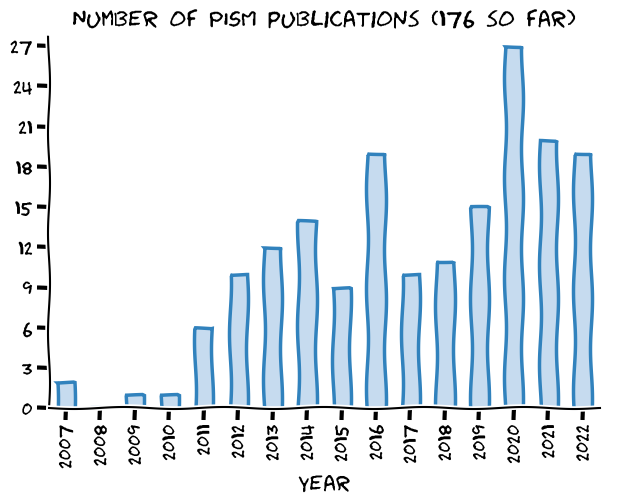
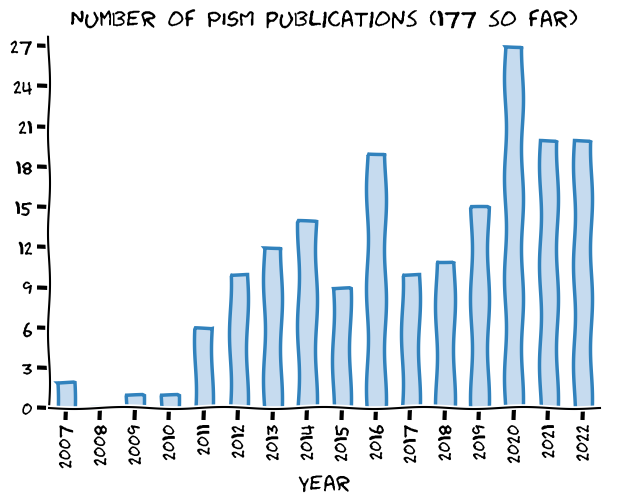
[skip ci] Update the website

Changed region(s): [[0.0922, 0.0, 0.9531, 0.0598], [0.9223, 0.2689, 0.9838, 0.8068]]

diff --git a/publications/index.html b/publications/index.html
@@ -296,6 +296,7 @@ window.onscroll = function() {
   <li>R. Döscher, M. Acosta, A. Alessandri, P. Anthoni, T. Arsouze, T. Bergman, R. Bernardello, S. Boussetta, L.-P. Caron, G. Carver, M. Castrillo, F. Catalano, I. Cvijanovic, P. Davini, E. Dekker, F. J. Doblas-Reyes, D. Docquier, P. Echevarria, U. Fladrich, R. Fuentes-Franco, M. Gröger, J. v. Hardenberg, J. Hieronymus, M. P. Karami, J.-P. Keskinen, T. Koenigk, R. Makkonen, F. Massonnet, M. Ménégoz, P. A. Miller, E. Moreno-Chamarro, L. Nieradzik, T. van Noije, P. Nolan, D. O’Donnell, P. Ollinaho, G. van den Oord, P. Ortega, O. T. Prims, A. Ramos, T. Reerink, C. Rousset, Y. Ruprich-Robert, P. Le Sager, T. Schmith, R. Schrödner, F. Serva, V. Sicardi, M. Sloth Madsen, B. Smith, T. Tian, E. Tourigny, P. Uotila, M. Vancoppenolle, S. Wang, D. Wårlind, U. Willén, K. Wyser, S. Yang, X. Yepes-Arbós, and Q. Zhang. The EC-Earth3 Earth system model for the Coupled Model Intercomparison Project 6. <em>Geoscientific Model Development</em>, 15(7):2973–3020, 2022. URL: <a href="https://gmd.copernicus.org/articles/15/2973/2022/">https://gmd.copernicus.org/articles/15/2973/2022/</a>, <a href="https://doi.org/10.5194/gmd-15-2973-2022">doi:10.5194/gmd-15-2973-2022</a>.</li>
   <li>J. Feldmann, R. Reese, R. Winkelmann, and A. Levermann. Shear-margin melting causes stronger transient ice discharge than ice-stream melting in idealized simulations. <em>The Cryosphere</em>, 16(5):1927–1940, 2022. URL: <a href="https://tc.copernicus.org/articles/16/1927/2022/">https://tc.copernicus.org/articles/16/1927/2022/</a>, <a href="https://doi.org/10.5194/tc-16-1927-2022">doi:10.5194/tc-16-1927-2022</a>.</li>
   <li>S. Hinck, E. J. Gowan, X. Zhang, and G. Lohmann. PISM-LakeCC: Implementing an adaptive proglacial lake boundary into an ice sheet model. <em>The Cryosphere</em>, pages 941–965, 2022. URL: <a href="https://tc.copernicus.org/articles/16/941/2022/">https://tc.copernicus.org/articles/16/941/2022/</a>, <a href="https://doi.org/10.5194/tc-16-941-2022">doi:10.5194/tc-16-941-2022</a>.</li>
+  <li>James D. Kirkham, Kelly A. Hogan, Robert D. Larter, Neil S. Arnold, Jeremy C. Ely, Chris D. Clark, Ed Self, Ken Games, Mads Huuse, Margaret A. Stewart, Dag Ottesen, and Julian A. Dowdeswell. Tunnel valley formation beneath deglaciating mid-latitude ice sheets: Observations and modelling. <em>Quaternary Science Reviews</em>, pages 107680, oct 2022. <a href="https://doi.org/10.1016/j.quascirev.2022.107680">doi:10.1016/j.quascirev.2022.107680</a>.</li>
   <li>Oğuzhan Köse, M. Akif Sarıkaya, Attila Çiner, Adem Candaş, Cengiz Yıldırım, and Klaus M. Wilcken. Reconstruction of Last Glacial Maximum glaciers and palaeoclimate in the central Taurus Range, Mt. Karanfil, of the Eastern Mediterranean. <em>Quaternary Science Reviews</em>, 291:107656, sep 2022. <a href="https://doi.org/10.1016/j.quascirev.2022.107656">doi:10.1016/j.quascirev.2022.107656</a>.</li>
   <li>Shuang Liu, Kaiheng Hu, Weiming Liu, and Paul A. Carling. Hydro-climatic characteristics of Yarlung Zangbo River Basin since the Last Glacial Maximum. <em>Adv. Atmos. Sci.</em>, 2022. <a href="https://doi.org/10.1007/s00376-021-1150-7">doi:10.1007/s00376-021-1150-7</a>.</li>
   <li>Xiao Luo and Ting Lin. A Semi-Empirical Framework for ice sheet response analysis under Oceanic forcing in Antarctica and Greenland. <em>Climate Dynamics</em>, may 2022. <a href="https://doi.org/10.1007/s00382-022-06317-x">doi:10.1007/s00382-022-06317-x</a>.</li>

diff --git a/publications/published.md b/publications/published.md
@@ -7,18 +7,19 @@
 5. R\. Döscher, M\. Acosta, A\. Alessandri, P\. Anthoni, T\. Arsouze, T\. Bergman, R\. Bernardello, S\. Boussetta, L\.\-P\. Caron, G\. Carver, M\. Castrillo, F\. Catalano, I\. Cvijanovic, P\. Davini, E\. Dekker, F\. J\. Doblas\-Reyes, D\. Docquier, P\. Echevarria, U\. Fladrich, R\. Fuentes\-Franco, M\. Gröger, J\. v\. Hardenberg, J\. Hieronymus, M\. P\. Karami, J\.\-P\. Keskinen, T\. Koenigk, R\. Makkonen, F\. Massonnet, M\. Ménégoz, P\. A\. Miller, E\. Moreno\-Chamarro, L\. Nieradzik, T\. van Noije, P\. Nolan, D\. O'Donnell, P\. Ollinaho, G\. van den Oord, P\. Ortega, O\. T\. Prims, A\. Ramos, T\. Reerink, C\. Rousset, Y\. Ruprich\-Robert, P\. Le Sager, T\. Schmith, R\. Schrödner, F\. Serva, V\. Sicardi, M\. Sloth Madsen, B\. Smith, T\. Tian, E\. Tourigny, P\. Uotila, M\. Vancoppenolle, S\. Wang, D\. Wårlind, U\. Willén, K\. Wyser, S\. Yang, X\. Yepes\-Arbós, and Q\. Zhang\. The EC\-Earth3 Earth system model for the Coupled Model Intercomparison Project 6\. *Geoscientific Model Development*, 15\(7\):2973–3020, 2022\. URL: [https://gmd\.copernicus\.org/articles/15/2973/2022/](https://gmd.copernicus.org/articles/15/2973/2022/), [doi:10\.5194/gmd\-15\-2973\-2022](https://doi.org/10.5194/gmd-15-2973-2022)\.   
 6. J\. Feldmann, R\. Reese, R\. Winkelmann, and A\. Levermann\. Shear\-margin melting causes stronger transient ice discharge than ice\-stream melting in idealized simulations\. *The Cryosphere*, 16\(5\):1927–1940, 2022\. URL: [https://tc\.copernicus\.org/articles/16/1927/2022/](https://tc.copernicus.org/articles/16/1927/2022/), [doi:10\.5194/tc\-16\-1927\-2022](https://doi.org/10.5194/tc-16-1927-2022)\.   
 7. S\. Hinck, E\. J\. Gowan, X\. Zhang, and G\. Lohmann\. PISM\-LakeCC: Implementing an adaptive proglacial lake boundary into an ice sheet model\. *The Cryosphere*, pages 941–965, 2022\. URL: [https://tc\.copernicus\.org/articles/16/941/2022/](https://tc.copernicus.org/articles/16/941/2022/), [doi:10\.5194/tc\-16\-941\-2022](https://doi.org/10.5194/tc-16-941-2022)\.   
-8. Oğuzhan Köse, M\. Akif Sarıkaya, Attila Çiner, Adem Candaş, Cengiz Yıldırım, and Klaus M\. Wilcken\. Reconstruction of Last Glacial Maximum glaciers and palaeoclimate in the central Taurus Range, Mt\. Karanfil, of the Eastern Mediterranean\. *Quaternary Science Reviews*, 291:107656, sep 2022\. [doi:10\.1016/j\.quascirev\.2022\.107656](https://doi.org/10.1016/j.quascirev.2022.107656)\.   
-9. Shuang Liu, Kaiheng Hu, Weiming Liu, and Paul A\. Carling\. Hydro\-climatic characteristics of Yarlung Zangbo River Basin since the Last Glacial Maximum\. *Adv\. Atmos\. Sci\.*, 2022\. [doi:10\.1007/s00376\-021\-1150\-7](https://doi.org/10.1007/s00376-021-1150-7)\.   
-10. Xiao Luo and Ting Lin\. A Semi\-Empirical Framework for ice sheet response analysis under Oceanic forcing in Antarctica and Greenland\. *Climate Dynamics*, may 2022\. [doi:10\.1007/s00382\-022\-06317\-x](https://doi.org/10.1007/s00382-022-06317-x)\.   
-11. M\. S\. Madsen, S\. Yang, G\. Aðalgeirsdóttir, S\. H\. Svendsen, C\. B\. Rodehacke, and I\. M\. Ringgaard\. The role of an interactive greenland ice sheet in the coupled climate\-ice sheet model EC\-Earth\-PISM\. *Climate Dynamics*, Feb 2022\. [doi:10\.1007/s00382\-022\-06184\-6](https://doi.org/10.1007/s00382-022-06184-6)\.   
-12. Julian Martin, Bethan J\. Davies, Richard Jones, and Varyl Thorndycraft\. Modelled sensitivity of Monte San Lorenzo ice cap, Patagonian Andes, to past and present climate\. *Frontiers in Earth Science*, oct 2022\. [doi:10\.3389/feart\.2022\.831631](https://doi.org/10.3389/feart.2022.831631)\.   
-13. T\. Schlemm, J\. Feldmann, R\. Winkelmann, and A\. Levermann\. Stabilizing effect of mélange buttressing on the marine ice\-cliff instability of the West Antarctic Ice Sheet\. *The Cryosphere*, 16\(5\):1979–1996, 2022\. URL: [https://tc\.copernicus\.org/articles/16/1979/2022/](https://tc.copernicus.org/articles/16/1979/2022/), [doi:10\.5194/tc\-16\-1979\-2022](https://doi.org/10.5194/tc-16-1979-2022)\.   
-14. Martin Siegert and Nicholas R Golledge\. Advances in Numerical Modelling of the Antarctic Ice Sheet\. In *Antarctic Climate Evolution*, chapter 5, pages 199–218\. Elsevier, 2nd edition, 2022\.   
-15. Qing Yan, Lewis A\. Owen, Chuncheng Guo, Zhongshi Zhang, Jinzhe Zhang, and Huijun Wang\. Widespread glacier advances across the Tian Shan during Marine Isotope Stage 3 not supported by climate\-glaciation simulations\. *Fundamental Research*, 2022\. URL: [https://www\.sciencedirect\.com/science/article/pii/S266732582200111X](https://www.sciencedirect.com/science/article/pii/S266732582200111X), [doi:10\.1016/j\.fmre\.2022\.01\.033](https://doi.org/10.1016/j.fmre.2022.01.033)\.   
-16. Qing Yan, Ting Wei, and Zhongshi Zhang\. Modeling the climate sensitivity of Patagonian glaciers and their responses to climatic change during the global last glacial maximum\. *Quaternary Science Reviews*, 288:107582, 2022\. URL: [https://www\.sciencedirect\.com/science/article/pii/S027737912200213X](https://www.sciencedirect.com/science/article/pii/S027737912200213X), [doi:https://doi\.org/10\.1016/j\.quascirev\.2022\.107582](https://doi.org/https://doi.org/10.1016/j.quascirev.2022.107582)\.   
-17. Hu Yang, Uta Krebs\-Kanzow, Thomas Kleiner, Dmitry Sidorenko, Christian Bernd Rodehacke, Xiaoxu Shi, Paul Gierz, Lu Niu, Evan J\. Gowan, Sebastian Hinck, Xingxing Liu, Lennert B\. Stap, and Gerrit Lohmann\. Impact of paleoclimate on present and future evolution of the Greenland Ice Sheet\. *PLOS ONE*, 17\(1\):1–21, 2022\. [doi:10\.1371/journal\.pone\.0259816](https://doi.org/10.1371/journal.pone.0259816)\.   
-18. M\. Zeitz, J\. M\. Haacker, J\. F\. Donges, T\. Albrecht, and R\. Winkelmann\. Dynamic regimes of the Greenland Ice Sheet emerging from interacting melt\-elevation and glacial isostatic adjustment feedbacks\. *Earth System Dynamics*, 13\(3\):1077–1096, 2022\. URL: [https://esd\.copernicus\.org/articles/13/1077/2022/](https://esd.copernicus.org/articles/13/1077/2022/), [doi:10\.5194/esd\-13\-1077\-2022](https://doi.org/10.5194/esd-13-1077-2022)\.   
-19. A\.\-S\. P\. Zinck and A\. Grinsted\. Brief communication: Estimating the ice thickness of the Müller Ice Cap to support selection of a drill site\. *The Cryosphere*, 16\(4\):1399–1407, 2022\. URL: [https://tc\.copernicus\.org/articles/16/1399/2022/](https://tc.copernicus.org/articles/16/1399/2022/), [doi:10\.5194/tc\-16\-1399\-2022](https://doi.org/10.5194/tc-16-1399-2022)\.   
+8. James D\. Kirkham, Kelly A\. Hogan, Robert D\. Larter, Neil S\. Arnold, Jeremy C\. Ely, Chris D\. Clark, Ed Self, Ken Games, Mads Huuse, Margaret A\. Stewart, Dag Ottesen, and Julian A\. Dowdeswell\. Tunnel valley formation beneath deglaciating mid\-latitude ice sheets: Observations and modelling\. *Quaternary Science Reviews*, pages 107680, oct 2022\. [doi:10\.1016/j\.quascirev\.2022\.107680](https://doi.org/10.1016/j.quascirev.2022.107680)\.   
+9. Oğuzhan Köse, M\. Akif Sarıkaya, Attila Çiner, Adem Candaş, Cengiz Yıldırım, and Klaus M\. Wilcken\. Reconstruction of Last Glacial Maximum glaciers and palaeoclimate in the central Taurus Range, Mt\. Karanfil, of the Eastern Mediterranean\. *Quaternary Science Reviews*, 291:107656, sep 2022\. [doi:10\.1016/j\.quascirev\.2022\.107656](https://doi.org/10.1016/j.quascirev.2022.107656)\.   
+10. Shuang Liu, Kaiheng Hu, Weiming Liu, and Paul A\. Carling\. Hydro\-climatic characteristics of Yarlung Zangbo River Basin since the Last Glacial Maximum\. *Adv\. Atmos\. Sci\.*, 2022\. [doi:10\.1007/s00376\-021\-1150\-7](https://doi.org/10.1007/s00376-021-1150-7)\.   
+11. Xiao Luo and Ting Lin\. A Semi\-Empirical Framework for ice sheet response analysis under Oceanic forcing in Antarctica and Greenland\. *Climate Dynamics*, may 2022\. [doi:10\.1007/s00382\-022\-06317\-x](https://doi.org/10.1007/s00382-022-06317-x)\.   
+12. M\. S\. Madsen, S\. Yang, G\. Aðalgeirsdóttir, S\. H\. Svendsen, C\. B\. Rodehacke, and I\. M\. Ringgaard\. The role of an interactive greenland ice sheet in the coupled climate\-ice sheet model EC\-Earth\-PISM\. *Climate Dynamics*, Feb 2022\. [doi:10\.1007/s00382\-022\-06184\-6](https://doi.org/10.1007/s00382-022-06184-6)\.   
+13. Julian Martin, Bethan J\. Davies, Richard Jones, and Varyl Thorndycraft\. Modelled sensitivity of Monte San Lorenzo ice cap, Patagonian Andes, to past and present climate\. *Frontiers in Earth Science*, oct 2022\. [doi:10\.3389/feart\.2022\.831631](https://doi.org/10.3389/feart.2022.831631)\.   
+14. T\. Schlemm, J\. Feldmann, R\. Winkelmann, and A\. Levermann\. Stabilizing effect of mélange buttressing on the marine ice\-cliff instability of the West Antarctic Ice Sheet\. *The Cryosphere*, 16\(5\):1979–1996, 2022\. URL: [https://tc\.copernicus\.org/articles/16/1979/2022/](https://tc.copernicus.org/articles/16/1979/2022/), [doi:10\.5194/tc\-16\-1979\-2022](https://doi.org/10.5194/tc-16-1979-2022)\.   
+15. Martin Siegert and Nicholas R Golledge\. Advances in Numerical Modelling of the Antarctic Ice Sheet\. In *Antarctic Climate Evolution*, chapter 5, pages 199–218\. Elsevier, 2nd edition, 2022\.   
+16. Qing Yan, Lewis A\. Owen, Chuncheng Guo, Zhongshi Zhang, Jinzhe Zhang, and Huijun Wang\. Widespread glacier advances across the Tian Shan during Marine Isotope Stage 3 not supported by climate\-glaciation simulations\. *Fundamental Research*, 2022\. URL: [https://www\.sciencedirect\.com/science/article/pii/S266732582200111X](https://www.sciencedirect.com/science/article/pii/S266732582200111X), [doi:10\.1016/j\.fmre\.2022\.01\.033](https://doi.org/10.1016/j.fmre.2022.01.033)\.   
+17. Qing Yan, Ting Wei, and Zhongshi Zhang\. Modeling the climate sensitivity of Patagonian glaciers and their responses to climatic change during the global last glacial maximum\. *Quaternary Science Reviews*, 288:107582, 2022\. URL: [https://www\.sciencedirect\.com/science/article/pii/S027737912200213X](https://www.sciencedirect.com/science/article/pii/S027737912200213X), [doi:https://doi\.org/10\.1016/j\.quascirev\.2022\.107582](https://doi.org/https://doi.org/10.1016/j.quascirev.2022.107582)\.   
+18. Hu Yang, Uta Krebs\-Kanzow, Thomas Kleiner, Dmitry Sidorenko, Christian Bernd Rodehacke, Xiaoxu Shi, Paul Gierz, Lu Niu, Evan J\. Gowan, Sebastian Hinck, Xingxing Liu, Lennert B\. Stap, and Gerrit Lohmann\. Impact of paleoclimate on present and future evolution of the Greenland Ice Sheet\. *PLOS ONE*, 17\(1\):1–21, 2022\. [doi:10\.1371/journal\.pone\.0259816](https://doi.org/10.1371/journal.pone.0259816)\.   
+19. M\. Zeitz, J\. M\. Haacker, J\. F\. Donges, T\. Albrecht, and R\. Winkelmann\. Dynamic regimes of the Greenland Ice Sheet emerging from interacting melt\-elevation and glacial isostatic adjustment feedbacks\. *Earth System Dynamics*, 13\(3\):1077–1096, 2022\. URL: [https://esd\.copernicus\.org/articles/13/1077/2022/](https://esd.copernicus.org/articles/13/1077/2022/), [doi:10\.5194/esd\-13\-1077\-2022](https://doi.org/10.5194/esd-13-1077-2022)\.   
+20. A\.\-S\. P\. Zinck and A\. Grinsted\. Brief communication: Estimating the ice thickness of the Müller Ice Cap to support selection of a drill site\. *The Cryosphere*, 16\(4\):1399–1407, 2022\. URL: [https://tc\.copernicus\.org/articles/16/1399/2022/](https://tc.copernicus.org/articles/16/1399/2022/), [doi:10\.5194/tc\-16\-1399\-2022](https://doi.org/10.5194/tc-16-1399-2022)\.   
 
 ### 2021
 
